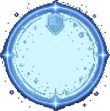
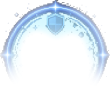
Zmena assetov, pridanie efektu spomalenia

diff --git a/src/hrac/Hrac.java b/src/hrac/Hrac.java
@@ -7,6 +7,7 @@ import strely.KlasickaStrela;
 import strely.ManazerStriel;
 import strely.Strela;
 import java.util.ArrayList;
+import java.util.Iterator;
 
 /**
  * Trieda hrac.Hrac zabezpecuje pohyb hraca, dashovanie, strelbu.
@@ -65,6 +66,7 @@ public class Hrac {
      */
     public void posunVpravo() {
         this.ideVpravo = true;
+        this.ideVlavo = false;
     }
 
     /**
@@ -72,6 +74,7 @@ public class Hrac {
      */
     public void posunVlavo() {
         this.ideVlavo = true;
+        this.ideVpravo = false;
     }
 
     /**
@@ -93,6 +96,7 @@ public class Hrac {
      */
     public void posunHore() {
         this.ideHore = true;
+        this.ideDole = false;
     }
 
     /**
@@ -100,6 +104,7 @@ public class Hrac {
      */
     public void posunDole() {
         this.ideDole = true;
+        this.ideHore = false;
     }
 
     /**
@@ -123,7 +128,7 @@ public class Hrac {
         if (this.strelaCooldown <= 0) {
             Strela strela = new KlasickaStrela(this.polohaX + this.sirkaHraca / 2 - 6, this.polohaY, true);
             this.manazerStriel.pridajStrelu(strela);
-            this.strelaCooldown = 60;
+            this.strelaCooldown = 15;
         }
     }
 
@@ -191,7 +196,6 @@ public class Hrac {
      */
     public void tik() {
         this.spravHracaNesmrtelnym();
-        this.tikEfektov();
 
         if (this.dashuje) {
             int novyX = this.polohaX + this.dashSmer * 30;
@@ -239,17 +243,24 @@ public class Hrac {
         if (this.strelaCooldown > 0) {
             this.strelaCooldown--;
         }
+        this.tikEfektov();
     }
 
     private void tikEfektov() {
-        this.aktivneEfekty.forEach(EfektPosobenie::tikEfektu);
+        Iterator<EfektPosobenie> iterator = this.aktivneEfekty.iterator();
 
-        this.aktivneEfekty.stream()
-            .filter(e -> e.getTrvanie() <= 0)
-            .forEach(EfektPosobenie::priVyprchani);
+        while (iterator.hasNext()) {
+            EfektPosobenie efekt = iterator.next();
 
-        this.aktivneEfekty.removeIf(e -> e.getTrvanie() <= 0);
+            efekt.tikEfektu();
+
+            if (efekt.getTrvanie() <= 0) {
+                efekt.priVyprchani();
+                iterator.remove();
+            }
+        }
     }
+
 
     /**
      * Zisti, ci je hrac mrtvy.

diff --git a/src/efekty/SpomalenieEfektItem.java b/src/efekty/SpomalenieEfektItem.java
@@ -2,18 +2,60 @@ package efekty;
 
 import hrac.Hrac;
 
+import java.util.Random;
+
 public class SpomalenieEfektItem extends EfektItem {
 
-    public SpomalenieEfektItem(int poziciaX, int poziciaY, String cestaKObrazku, int rychlost) {
-        super(poziciaX, poziciaY, cestaKObrazku, rychlost);
+    private int uholObrazku;
+    private int smerPohybuX;
+
+
+    public SpomalenieEfektItem() {
+        Random random = new Random();
+        int nahodnyFaktor = random.nextInt(2);
+        int x;
+        if (nahodnyFaktor == 0) {
+            x = -100;
+        } else {
+            x = 1300;
+        }
+        super(x , random.nextInt(490, 720), "assets/spomalenieEfekt.png", 4);
+        if (nahodnyFaktor == 0) {
+            this.smerPohybuX = 1;
+        } else {
+            this.smerPohybuX = -1;
+        }
+        this.uholObrazku = 0;
     }
 
     @Override
     public void tik() {
+        if (!this.jeAktivny()) {
+            return;
+        }
 
+        this.posunX(this.getRychlost() * this.smerPohybuX);
+
+        this.posunY(this.getSmerPohybuY());
+        this.zvysPrejdenuVzdialenostY(1);
+
+        if (this.getPrejdenaVzdialenostY() >= 34) {
+            this.zmenSmerPohybuY();
+            this.zvysPrejdenuVzdialenostY(-this.getPrejdenaVzdialenostY());
+        }
+        this.aktualizujPolohu();
+
+        this.uholObrazku += 3;
+        this.zmenUhol(this.uholObrazku);
+
+        if (this.getLavyHitbox() >= 1400 || this.getLavyHitbox() <= -250) {
+            this.deaktivuj();
+        }
     }
+
 
     @Override
     public void aplikujEfekt(Hrac hrac) {
+        hrac.pridajEfektDoZoznamu(new SpomalenieEfektPosobenie(hrac));
     }
 }

diff --git a/src/efekty/ManazerEfektov.java b/src/efekty/ManazerEfektov.java
@@ -25,16 +25,19 @@ public class ManazerEfektov {
     public void tikEfektov() {
         if (this.spawnCooldown > 0) {
             this.spawnCooldown--;
-        } else if (this.random.nextInt(1000) < 3) {
-//            int nahodnyEfekt = this.random.nextInt(2);
-//            switch (nahodnyEfekt) {
-//                case 0: this.pridajEfekt(new ShieldEfektItem());
-//                break;
-//                case 1: this.pridajEfekt(new SpomalenieEfektItem());
-//                break;
-//            }
-            this.pridajEfekt(new ShieldEfektItem());
-            this.spawnCooldown = 350; //4s
+        } else if (this.random.nextInt(1000) < 70) {
+            int nahodnyEfekt = this.random.nextInt(2);
+            switch (nahodnyEfekt) {
+                case 0:
+                    this.pridajEfekt(new ShieldEfektItem());
+                    break;
+                case 1:
+                    this.pridajEfekt(new SpomalenieEfektItem());
+                    break;
+                default:
+                    break;
+            }
+            this.spawnCooldown = 200;
         }
 
         if (!this.efekty.isEmpty()) {
@@ -45,6 +48,7 @@ public class ManazerEfektov {
             this.efekty.removeIf((efektItem) -> !efektItem.jeAktivny());
         }
     }
+
 
     private void koliziaEfektuSHracom(EfektItem efektItem) {
         if (efektItem.jeAktivny()

diff --git a/src/hra/Hra.java b/src/hra/Hra.java
@@ -61,7 +61,7 @@ public class Hra {
         predelenie.zobraz();
 
         this.stavHry = StavHry.MENU;
-        this.ciernePozadie = new Obrazok("assets/ciernePozadie.png", 0, 0);
+        this.ciernePozadie = new Obrazok("assets/menuPozadie.png", 0, -20);
         this.zobrazMenu();
     }
 
@@ -96,8 +96,12 @@ public class Hra {
                 this.skryMenu();
                 this.stavHry = StavHry.BEZI;
             }
+            if (x > 450 && x < 750 && y > 521 && y < 612) {
+                System.exit(0);
+            }
             return;
         }
+
 
         if (this.stavHry == StavHry.PAUZA) {
             if (x > 450 && x < 750 && y > 307 && y < 394) {
@@ -168,10 +172,12 @@ public class Hra {
     private void zobrazMenu() {
         this.ciernePozadie.zobraz();
         this.start.zobraz();
+        this.quit.zobraz();
     }
 
     private void skryMenu() {
         this.start.skry();
+        this.quit.skry();
         this.ciernePozadie.skry();
     }
 

diff --git a/src/efekty/SpomalenieEfektPosobenie.java b/src/efekty/SpomalenieEfektPosobenie.java
@@ -1,23 +1,34 @@
 package efekty;
 
+import hrac.Hrac;
+
 public class SpomalenieEfektPosobenie implements EfektPosobenie {
+
+    private Hrac hrac;
+    private int trvanie;
+
+    public SpomalenieEfektPosobenie(Hrac hrac) {
+        this.hrac = hrac;
+        this.trvanie = 150;
+    }
+
     @Override
     public void priAktivacii() {
-
+        this.hrac.setRychlost(3);
     }
 
     @Override
     public void tikEfektu() {
-
+        this.trvanie--;
     }
 
     @Override
     public void priVyprchani() {
-
+        this.hrac.setRychlostNaDefault();
     }
 
     @Override
     public int getTrvanie() {
-        return 0;
+        return this.trvanie;
     }
 }

diff --git a/src/efekty/ShieldEfektPosobenie.java b/src/efekty/ShieldEfektPosobenie.java
@@ -8,7 +8,7 @@ public class ShieldEfektPosobenie implements EfektPosobenie {
     private int trvanie;
     private Obrazok obrazokShield;
     private Hrac hrac;
-    public static final int SHIELD_OFFSET = 5;
+    public static final int SHIELD_OFFSET = 4;
 
     public ShieldEfektPosobenie(Hrac hrac) {
         this.trvanie = 250;
@@ -31,6 +31,7 @@ public class ShieldEfektPosobenie implements EfektPosobenie {
         this.obrazokShield.zmenPolohu(
             this.hrac.getLavyHitbox()  - SHIELD_OFFSET
             , this.hrac.getHornyHitbox()  - SHIELD_OFFSET);
+        this.obrazokShield.zobraz();
         this.trvanie--;
     }
 

diff --git a/src/efekty/EfektItem.java b/src/efekty/EfektItem.java
@@ -198,5 +198,9 @@ public abstract class EfektItem {
     protected void aktualizujPolohu() {
         this.obrazok.zmenPolohu(this.poziciaX, this.poziciaY);
     }
+
+    protected void zmenUhol(int stupne) {
+        this.obrazok.zmenUhol(stupne);
+    }
 }
 
